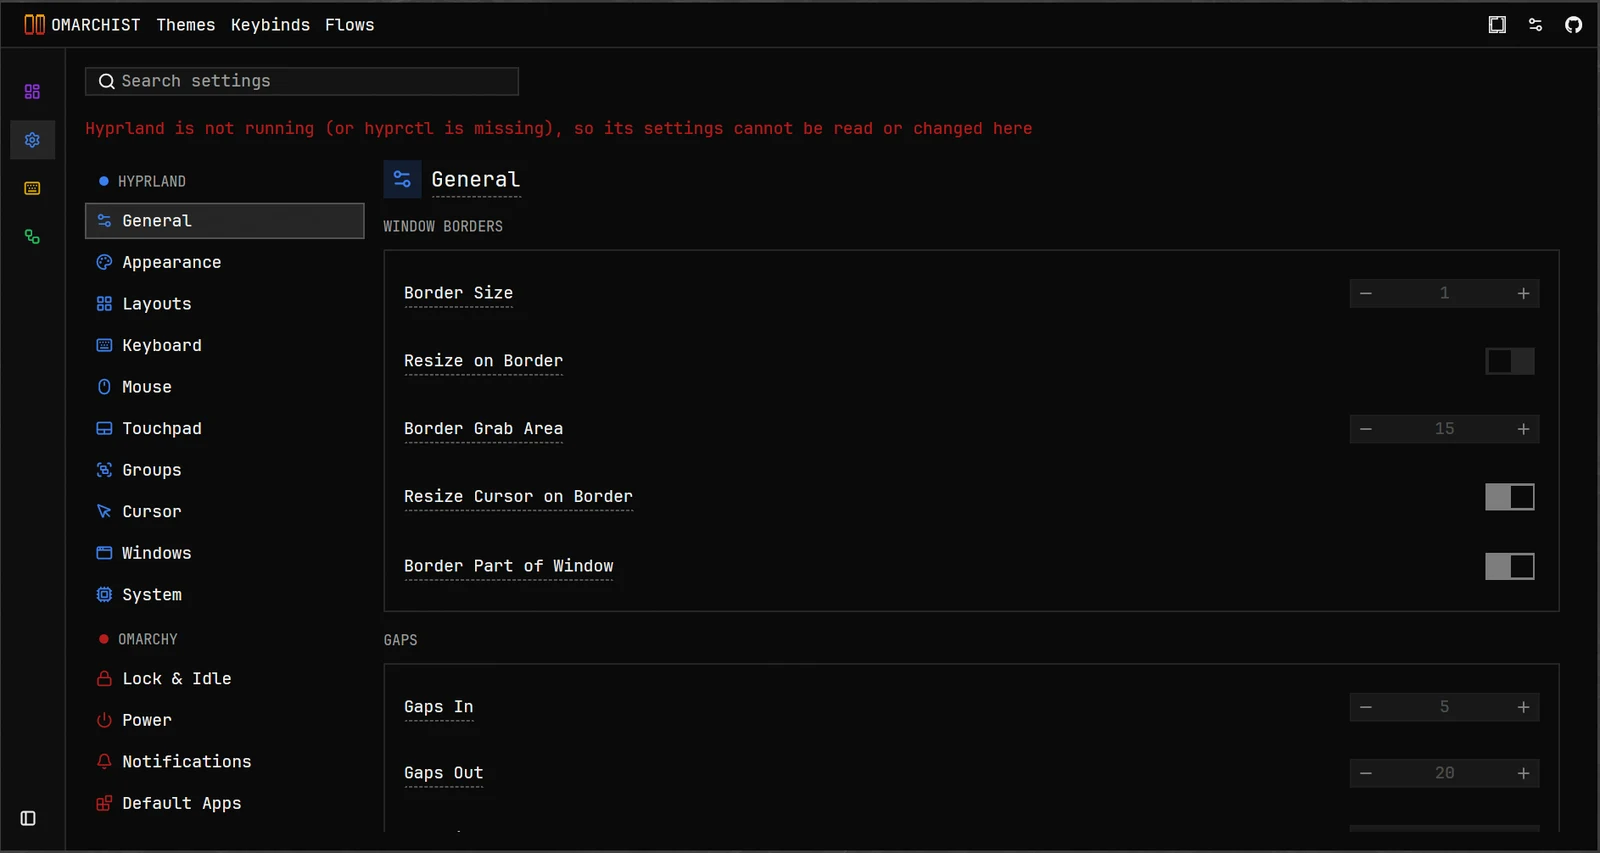
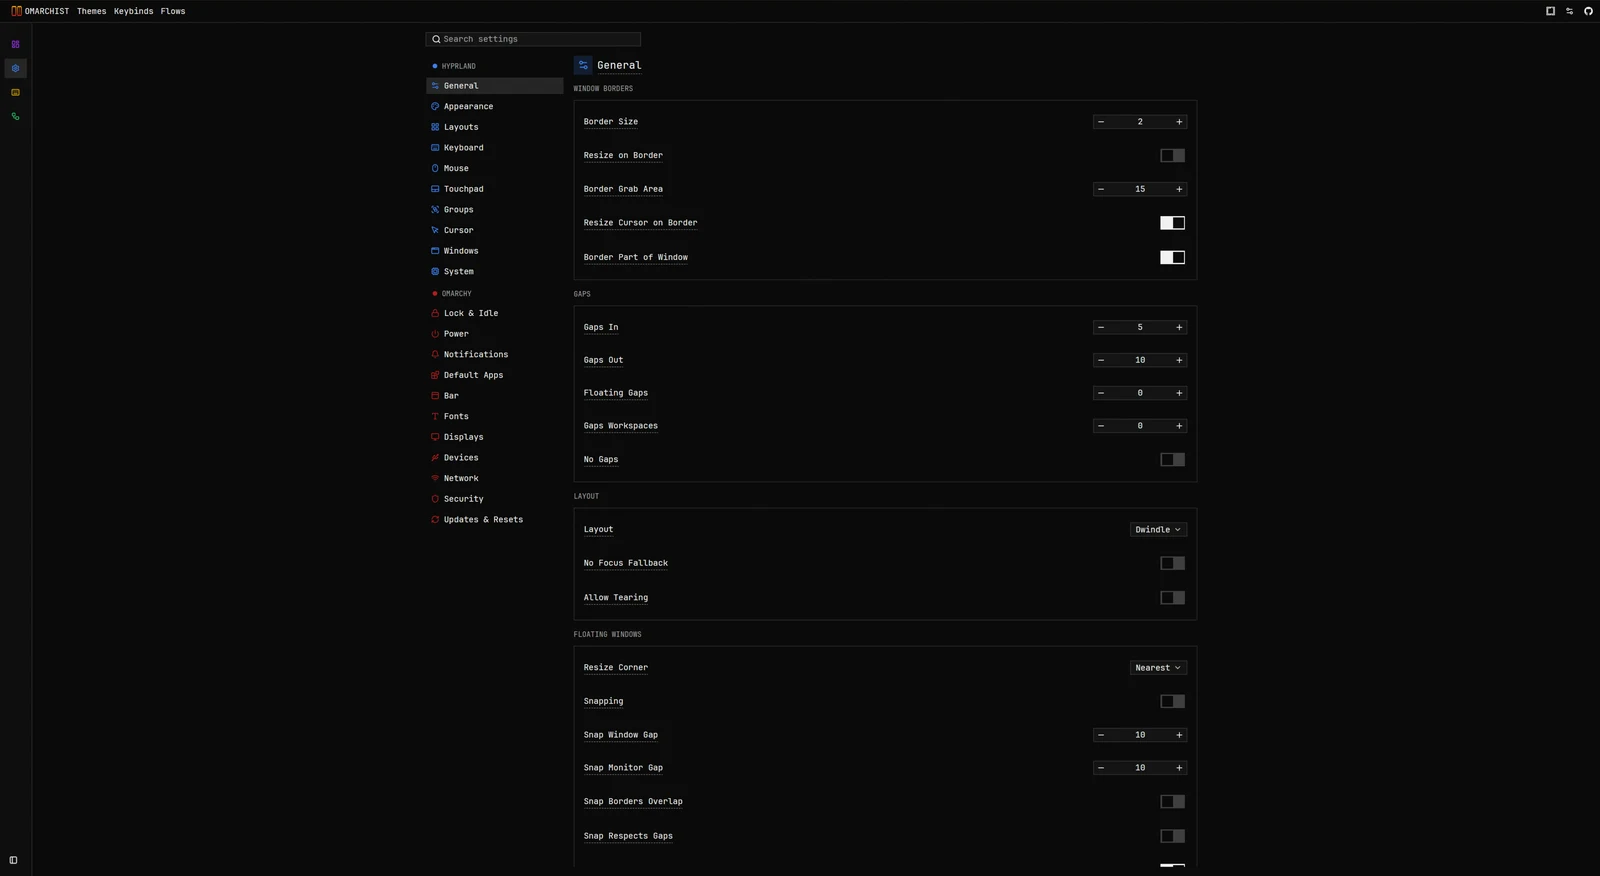
docs: the Configuration screenshot from a running desktop; a test race fixed
The dark Configuration image was taken in the sandbox, where Hyprland
cannot be reached and the page says so; this one is from the user's own
desktop. Two template tests shared one temp folder that the first one
removed, which failed the second now and then under the parallel runner;
each has its own.

diff --git a/src/system/flows/templates.rs b/src/system/flows/templates.rs
@@ -236,7 +236,9 @@ mod tests {
 
     #[test]
     fn a_flow_saved_as_a_template_loses_its_id_and_triggers() {
-        let dir = std::env::temp_dir().join(format!("omarchist-templates-{}", std::process::id()));
+        // A folder of its own: the tests run in parallel in one process.
+        let dir =
+            std::env::temp_dir().join(format!("omarchist-templates-save-{}", std::process::id()));
         let _ = fs::remove_dir_all(&dir);
         let mut flow = Flow::new("morning".into(), "Morning Start!".into());
         flow.steps = vec![super::super::Step::new(super::super::StepKind::Wait {
@@ -287,7 +289,8 @@ mod tests {
 
     #[test]
     fn a_user_template_file_is_read_without_an_id() {
-        let dir = std::env::temp_dir().join(format!("omarchist-templates-{}", std::process::id()));
+        let dir =
+            std::env::temp_dir().join(format!("omarchist-templates-read-{}", std::process::id()));
         fs::create_dir_all(&dir).unwrap();
         let path = dir.join("night-shift.flow.toml");
         fs::write(&path, "name = \"Night shift\"\nid = \"whatever\"\n").unwrap();
